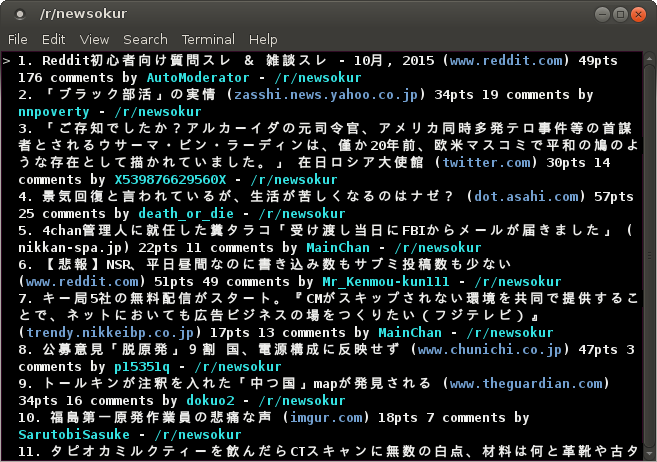
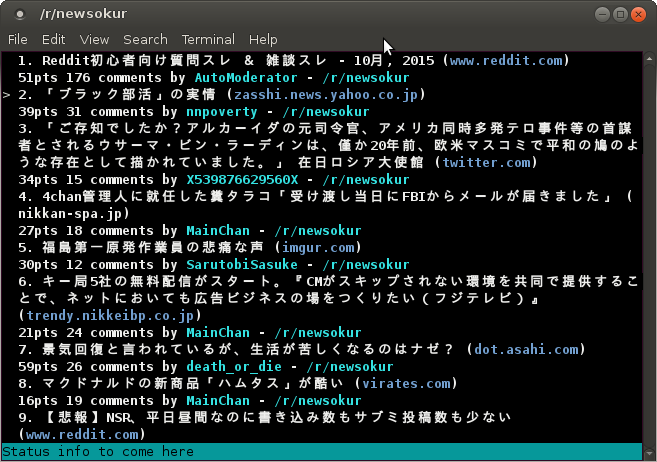
Corrected page formatting. Changed screenshot.

diff --git a/redterm/pages.py b/redterm/pages.py
@@ -52,15 +52,16 @@ class PageBase:
 
             # Save location of each new broken down line
             self.item_onscreenlocs.append(line_no)
-            for line in terminal.wrap(item_display, self.width - indentation):
-                if line == '[SEP1]':
-                    line = tags['[SEP1]']
-                elif line == '[SEP2]':
-                    line = tags['[SEP2]']
+            for item_display_line in item_display.splitlines():
+                for line in terminal.wrap(item_display_line, self.width - indentation):
+                    if line == '[SEP1]':
+                        line = tags['[SEP1]']
+                    elif line == '[SEP2]':
+                        line = tags['[SEP2]']
 
-                line = terminal.bold_white_on_black(' ' * indentation + line.rstrip('\n'))
-                self._item_strings_formatted.append(line)
-                line_no += 1
+                    line = terminal.bold_white_on_black(' ' * indentation + line)
+                    self._item_strings_formatted.append(line)
+                    line_no += 1
 
         return self._item_strings_formatted
 
@@ -94,8 +95,7 @@ class PageSubreddit(PageBase):
                                      terminal.bold_white_on_black(str(item.score) + 'pts ') +
                                      terminal.bold_white_on_black(str(item.num_comments) + ' comments by ') +
                                      terminal.cyan_on_black(str(item.author)) + terminal.bold_white_on_black(' - ') +
-                                     terminal.cyan_on_black('/r/' + str(item.subreddit)) + '\n' +
-                                     str('\n'))
+                                     terminal.cyan_on_black('/r/' + str(item.subreddit)) + '\n')
 
 
 
@@ -127,8 +127,7 @@ class PageSubmission(PageBase):
             try:
                 self.item_strings.append(terminal.white_on_black('* ') + terminal.cyan_on_black(str(item.author)) + ' - ' +
                                          str(item.score) + 'pts \n' +
-                                         str(item.body) + '\n'
-                                         '\n')
+                                         str(item.body) + '\n')
 
             except AttributeError:
                 self.item_strings.append(terminal.underline_blue('More comments...') + '\n'

diff --git a/redterm/terminal.py b/redterm/terminal.py
@@ -47,7 +47,7 @@ class IO:
 
         # Remember terminal size.
         self.terminal_width = terminal.width
-        self.terminal_height = terminal.height
+        self.terminal_height = terminal.height - 1
 
         # Do not render if no items exist in page yet.
         if not self.page_current.items:
@@ -77,6 +77,9 @@ class IO:
             except IndexError:
                 # Print blank line in case buffer is empty
                 print(terminal.move(buffer_line_no, 0) + (terminal.on_black(' ' * self.terminal_width)), end='')
+
+        s = 'Status info to come here'
+        print(terminal.move(self.terminal_height, 0) + (terminal.black_on_cyan(s + ' ' * (self.terminal_width - len(s)))), end='')
 
         # Render cursor.
         cursor = terminal.white_on_black('>')
